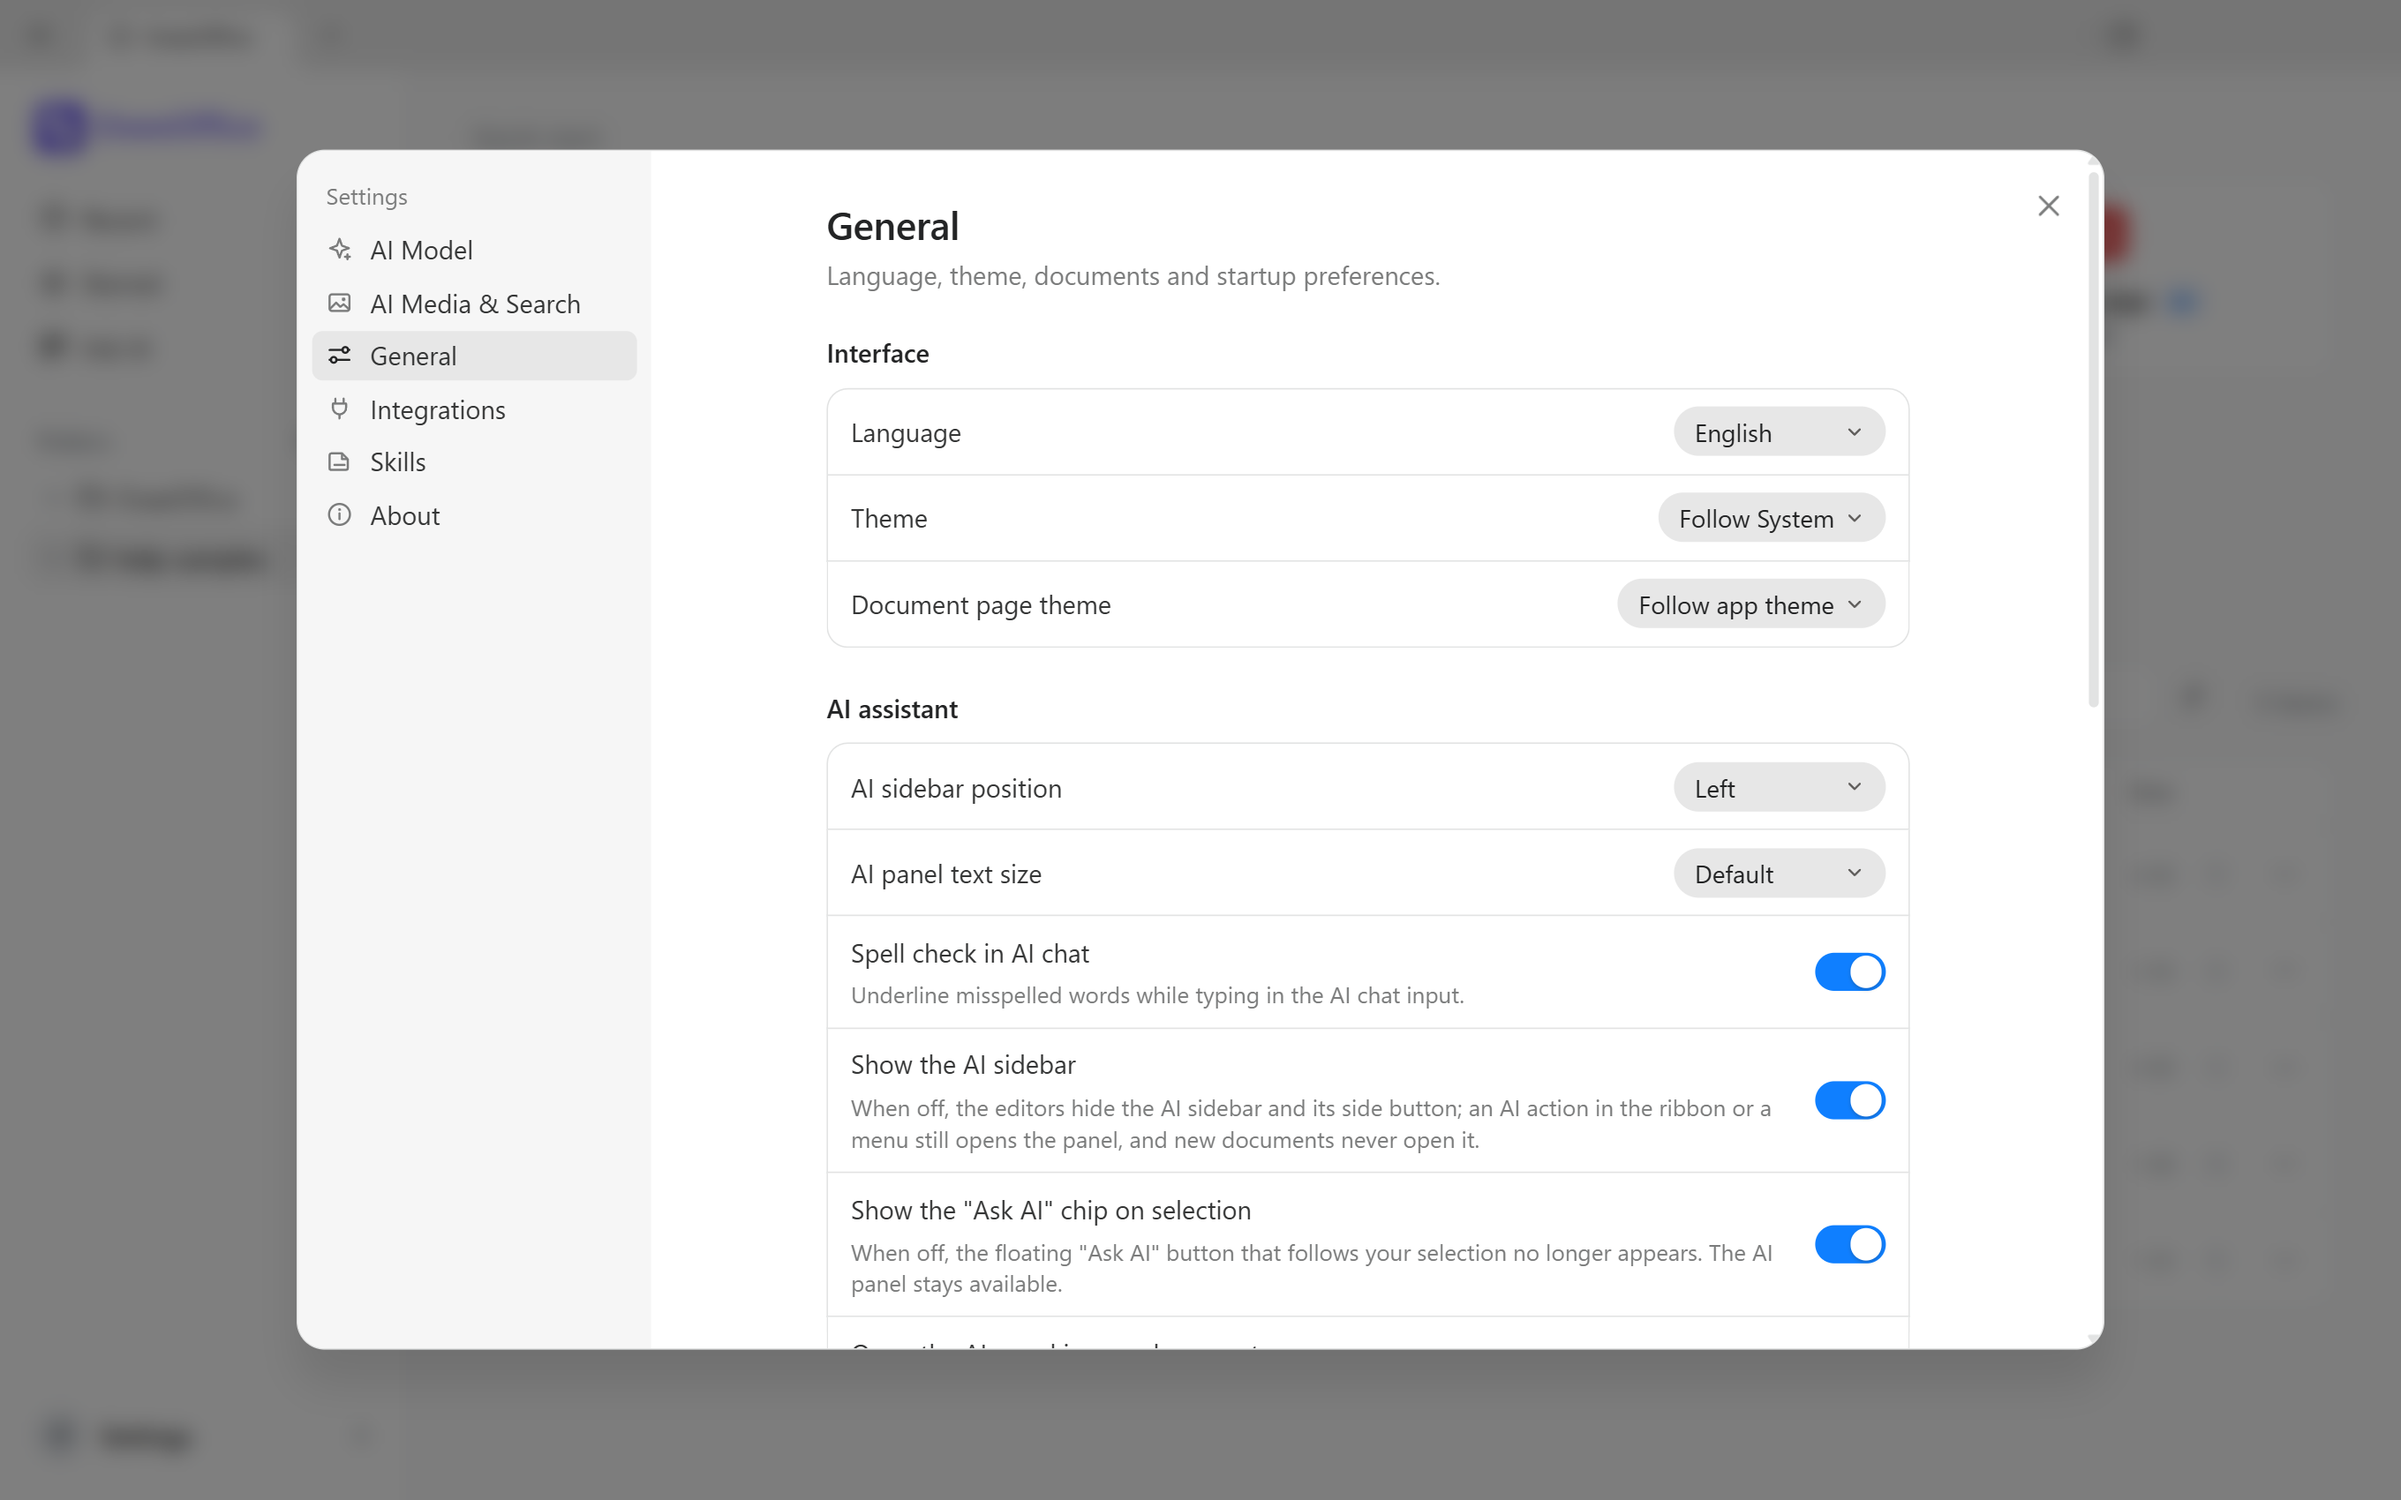
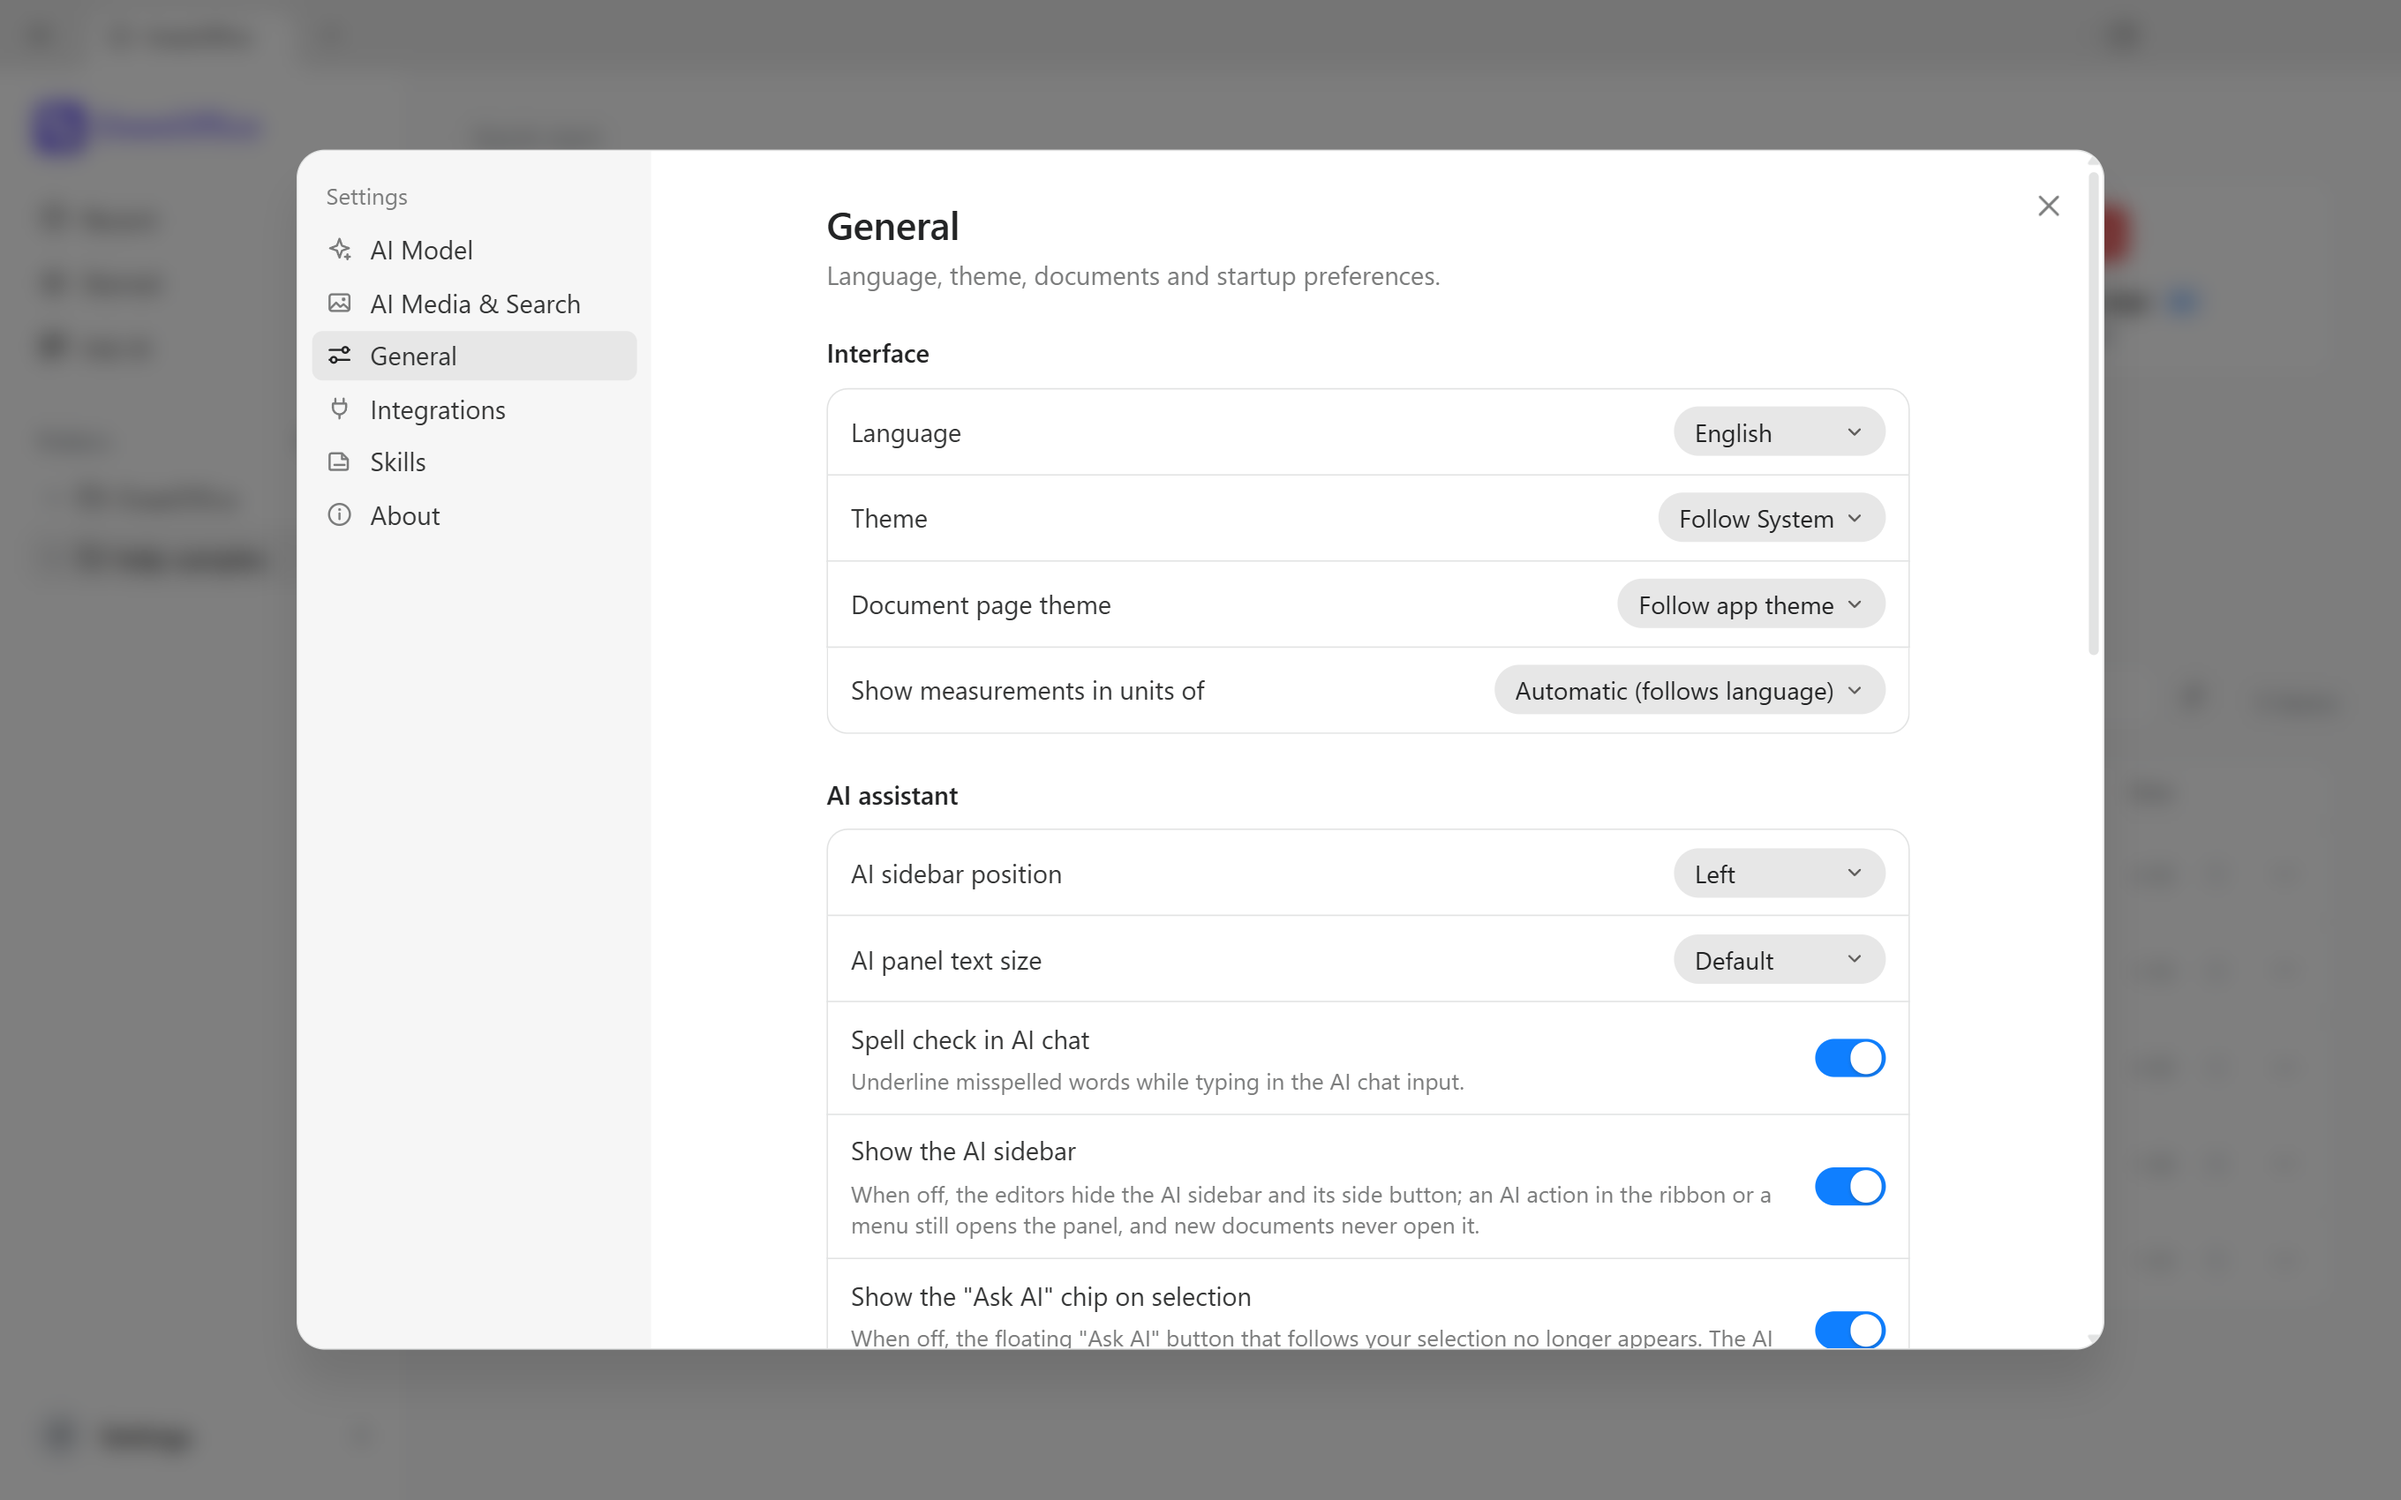
0.13.886 changelog; manual: measurement unit, excluded folders; figures
Figures regenerated on the branded build and pixel-diffed: Settings General
(measurement unit), the reasoning chip in the Docs and PDF panels, the longer
Word shortcut sheet, tabs and Slides ribbon re-renders. Home screen and
Integrations were noise and are left as they were.

diff --git a/CHANGELOG.md b/CHANGELOG.md
@@ -5,6 +5,46 @@ What changed in each OxeeOffice release. Installers are on the
 
 ---
 
+## OxeeOffice 0.13.886 — 2026-11-24
+
+Windows x64, Linux x64
+
+### New in the editors
+
+- **Docs:** headers and footers edited the way Word shows them (double-click a page
+  margin to open one); rulers fixed above the page, with a vertical ruler; the story
+  view becomes a writing view with Focus; **grammar check** and right-click
+  **synonyms** using your AI model; MathType equations shown as real equations and
+  convertible to Word equations; Paste as Picture and Paste Link with a Links dialog;
+  collapsible headings, saved themes and style sets, the style area in Draft and Outline
+  views; Word's navigation, selection and outline shortcuts; editing permissions in
+  protected documents; word count matches Word; Print in the File menu.
+- **Sheets:** much faster AutoFilter on large workbooks; GROUPBY and PIVOTBY; charts
+  follow formula results; a save keeps the Comments pane and its threads; double
+  underlines survive reopening.
+- **Slides:** AutoSave keeps speaker notes while you type them.
+- **PDF:** comments on text highlights are shown and kept.
+
+### App
+
+- One measurement unit in **Settings ▸ General** (inches, centimetres, millimetres,
+  points or picas), followed by every editor.
+- Exclude folders from recent files, search and session restore (**Settings ▸
+  General**).
+- In the Ask panel, type **@** to mention a knowledge-base file.
+- The Linux `.deb` now updates itself from **Restart to install**, like the AppImage.
+- Security hardening: every file the editors read or open is permission-checked; the
+  network MCP server refuses to listen beyond this computer without a token; CSV
+  formula cells are neutralized.
+
+### Oxeegen AI
+
+Grammar check and synonyms run on the model in the picker with reasoning off, so they
+answer in seconds. Everything else is unchanged: the reasoning level beside the picker,
+fast slides and long writing, Brave search, OpenAI `gpt-image-2.5-flare` images.
+
+---
+
 ## OxeeOffice 0.13.615 — 2026-11-19
 
 Windows x64, Linux x64

diff --git a/apps/shell/src/renderer/src/oxee-help/settings-integrations.fr.md b/apps/shell/src/renderer/src/oxee-help/settings-integrations.fr.md
@@ -25,6 +25,8 @@ OxeeOffice n’envoie aucune statistique d’utilisation : Général n’a donc 
 - **Ouvrir le panneau IA dans les nouveaux documents** — désactivé, un nouveau document démarre avec le panneau replié, à un clic de là.
 - **Enregistrer automatiquement tous les documents** active l'enregistrement automatique par défaut dans tous les éditeurs ; vous pouvez toujours le désactiver pour une fenêtre.
 - **Emplacement d'enregistrement** avec un bouton **Modifier** et **Application par défaut pour les documents Office** pour attribuer .docx / .xlsx / .pptx à OxeeOffice.
+- **Afficher les mesures en** : Automatique (selon la langue), Pouces, Centimètres, Millimètres, Points ou Picas. Tous les éditeurs suivent ce choix.
+- **Rouvrir les documents de la dernière fois** et **Dossiers exclus** : les fichiers des dossiers ajoutés n'apparaissent ni dans les fichiers récents, ni dans la recherche, ni dans la restauration de session.
 
 ## Médias IA et recherche
 

diff --git a/apps/shell/src/renderer/src/oxee-help/settings-integrations.en.md b/apps/shell/src/renderer/src/oxee-help/settings-integrations.en.md
@@ -25,6 +25,8 @@ OxeeOffice sends no usage statistics, so General has no switch for them.
 - **Open the AI panel in new documents** — off, a new document starts with the panel collapsed and one click away.
 - **Auto-save all documents** turns AutoSave on by default in every editor; you can still switch it off for one window.
 - **Save Location** with a **Change** button, and **Default app for Office documents** to claim .docx / .xlsx / .pptx for OxeeOffice.
+- **Show measurements in units of**: Automatic (follows the language), Inches, Centimeters, Millimeters, Points or Picas. Every editor follows it.
+- **Reopen documents from last time**, and **Excluded folders**: files under the folders you add stay out of recent files, search and session restore.
 
 ## AI Media & Search
 
